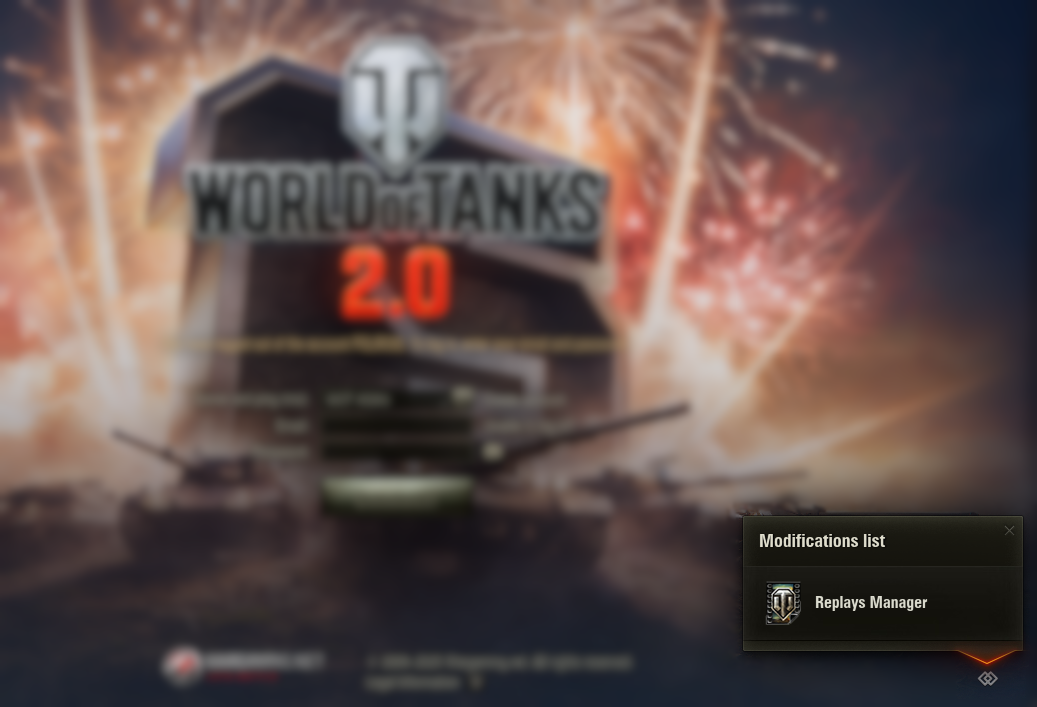
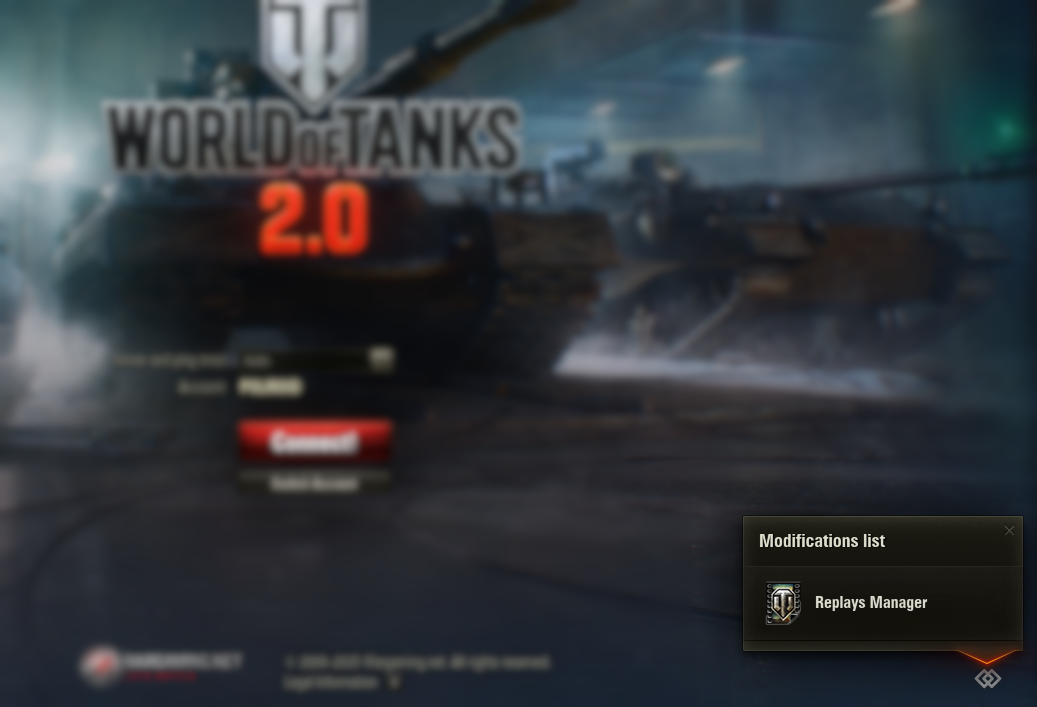
feat: improve button loading logic and UI
- Refactored the button loading mechanism to be event-driven. The button is now added only after the resource map is fully validated, preventing initialization errors.
- Renamed `show_button` to `add_button` for clarity.
- Adjusted the popover's max item count from 8 to 7.
- Fixed the popover height calculation for an empty list.
- Updated UI preview images.

diff --git a/python/gui/modsListApi/hooks.py b/python/gui/modsListApi/hooks.py
@@ -15,6 +15,8 @@ from .utils import get_parent_window, override
 from .controller import g_controller
 from .events import g_eventsManager
 
+from openwg_gameface import manager as resmap
+
 def show_popover():
     # type: () -> None
     """
@@ -27,11 +29,13 @@ def show_popover():
 
 g_eventsManager.showPopover += show_popover
 
-def show_button():
+def add_button():
     # type: () -> None
     """
-    Loads the button view when the application is initialized.
+    Loads the button view if UiResourceManager is validated.
     """
+    if not resmap.isResMapValidated:
+        return
     app = ServicesLocator.appLoader.getApp(APP_NAME_SPACE.SF_LOBBY)
     if not app:
         return
@@ -44,7 +48,7 @@ def on_app_initialized(event):
     """
     if event.ns != APP_NAME_SPACE.SF_LOBBY:
         return
-    show_button()
+    add_button()
 
 g_eventBus.addListener(events.AppLifeCycleEvent.INITIALIZED, on_app_initialized, scope=EVENT_BUS_SCOPE.GLOBAL)
 
@@ -68,7 +72,7 @@ def onListUpdated():
     view = container.getView(criteria={POP_UP_CRITERIA.VIEW_ALIAS: MODS_LIST_BUTTON_VIEW})
     # Try to load the button view.
     if g_controller.isModsExist and not view:
-        return show_button()
+        return add_button()
 
 g_eventsManager.onListUpdated += onListUpdated
 
@@ -79,7 +83,18 @@ def hooked_initChildren(baseMethod, baseObject):
     Injects the button view into the lobby footer.
     """
     baseMethod(baseObject)
+    if not resmap.isResMapValidated:
+        return
     baseObject.setChildView(
         ModsButtonView.buttonLayoutID(),
         ModsButtonView()
     )
+
+def onResMapValidated():
+    # type: () -> None
+    """
+    Handles UiResourceManager validation.
+    """
+    return add_button()
+
+resmap.onResMapValidated += onResMapValidated

diff --git a/python/gui/modsListApi/__init__.py b/python/gui/modsListApi/__init__.py
@@ -1,7 +1,7 @@
 # SPDX-License-Identifier: MIT
 # Copyright (c) 2015-2025 Andrii Andrushchyshyn
 
-__version__ = "1.7.0"
+__version__ = "1.7.3"
 
 try:
     import openwg_gameface

diff --git a/CHANGELOG.md b/CHANGELOG.md
@@ -1,5 +1,9 @@
 # Changelog
 
+## v1.7.3
+
+* feat: improve button loading logic and UI
+
 ## v1.7.2
 
 * fix: update mods list on modification removal
